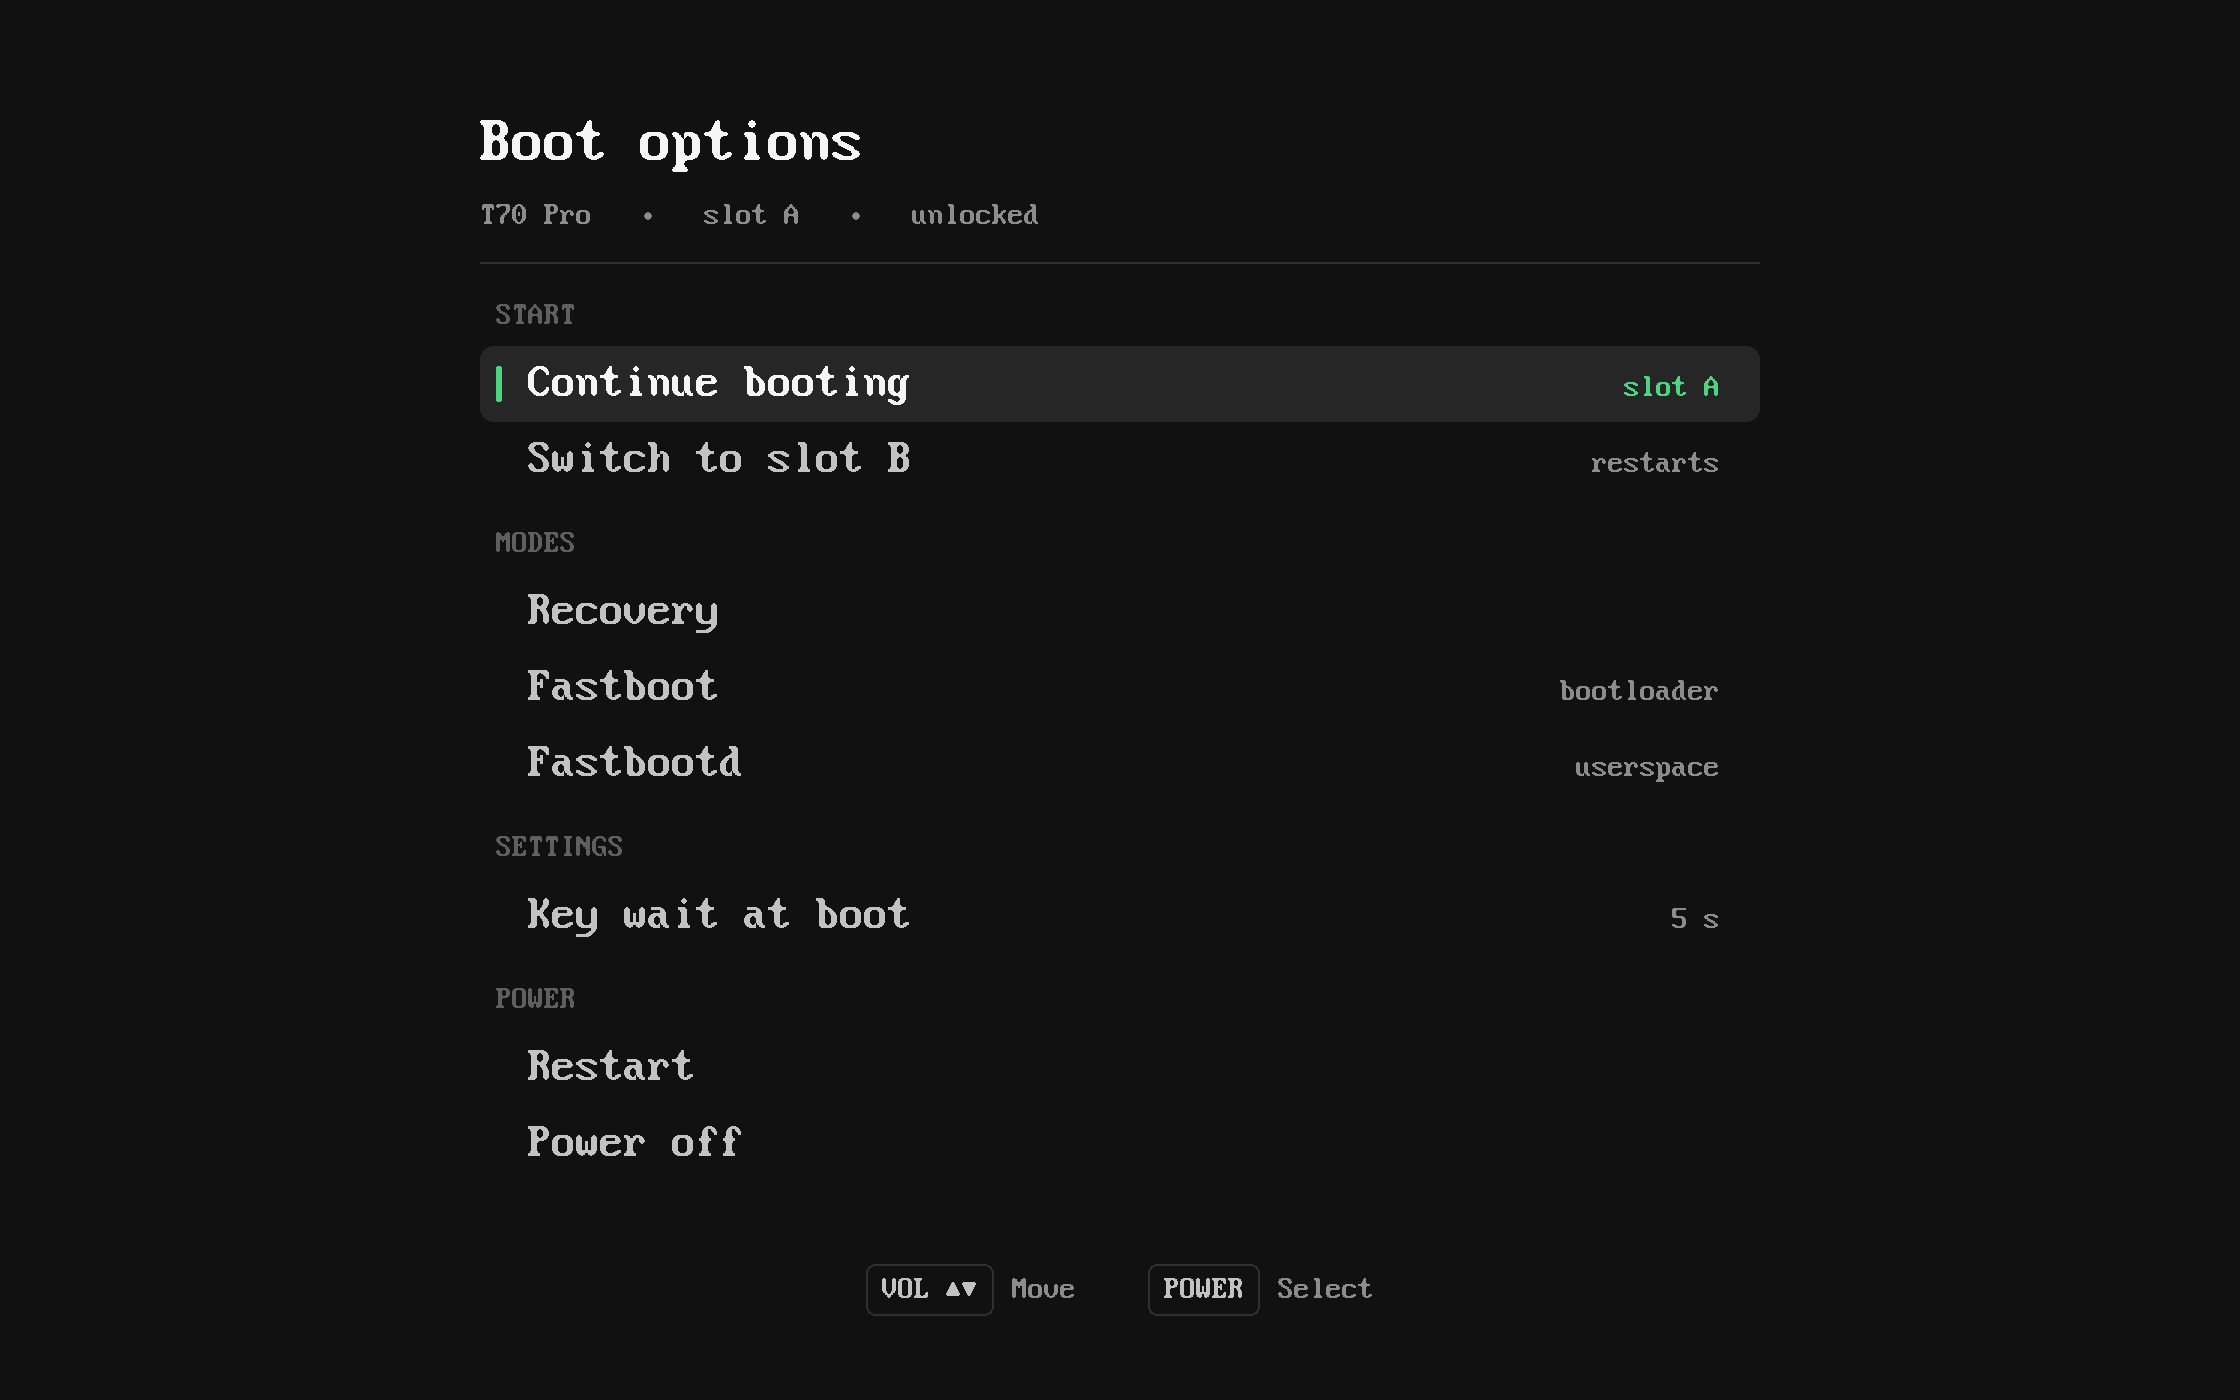
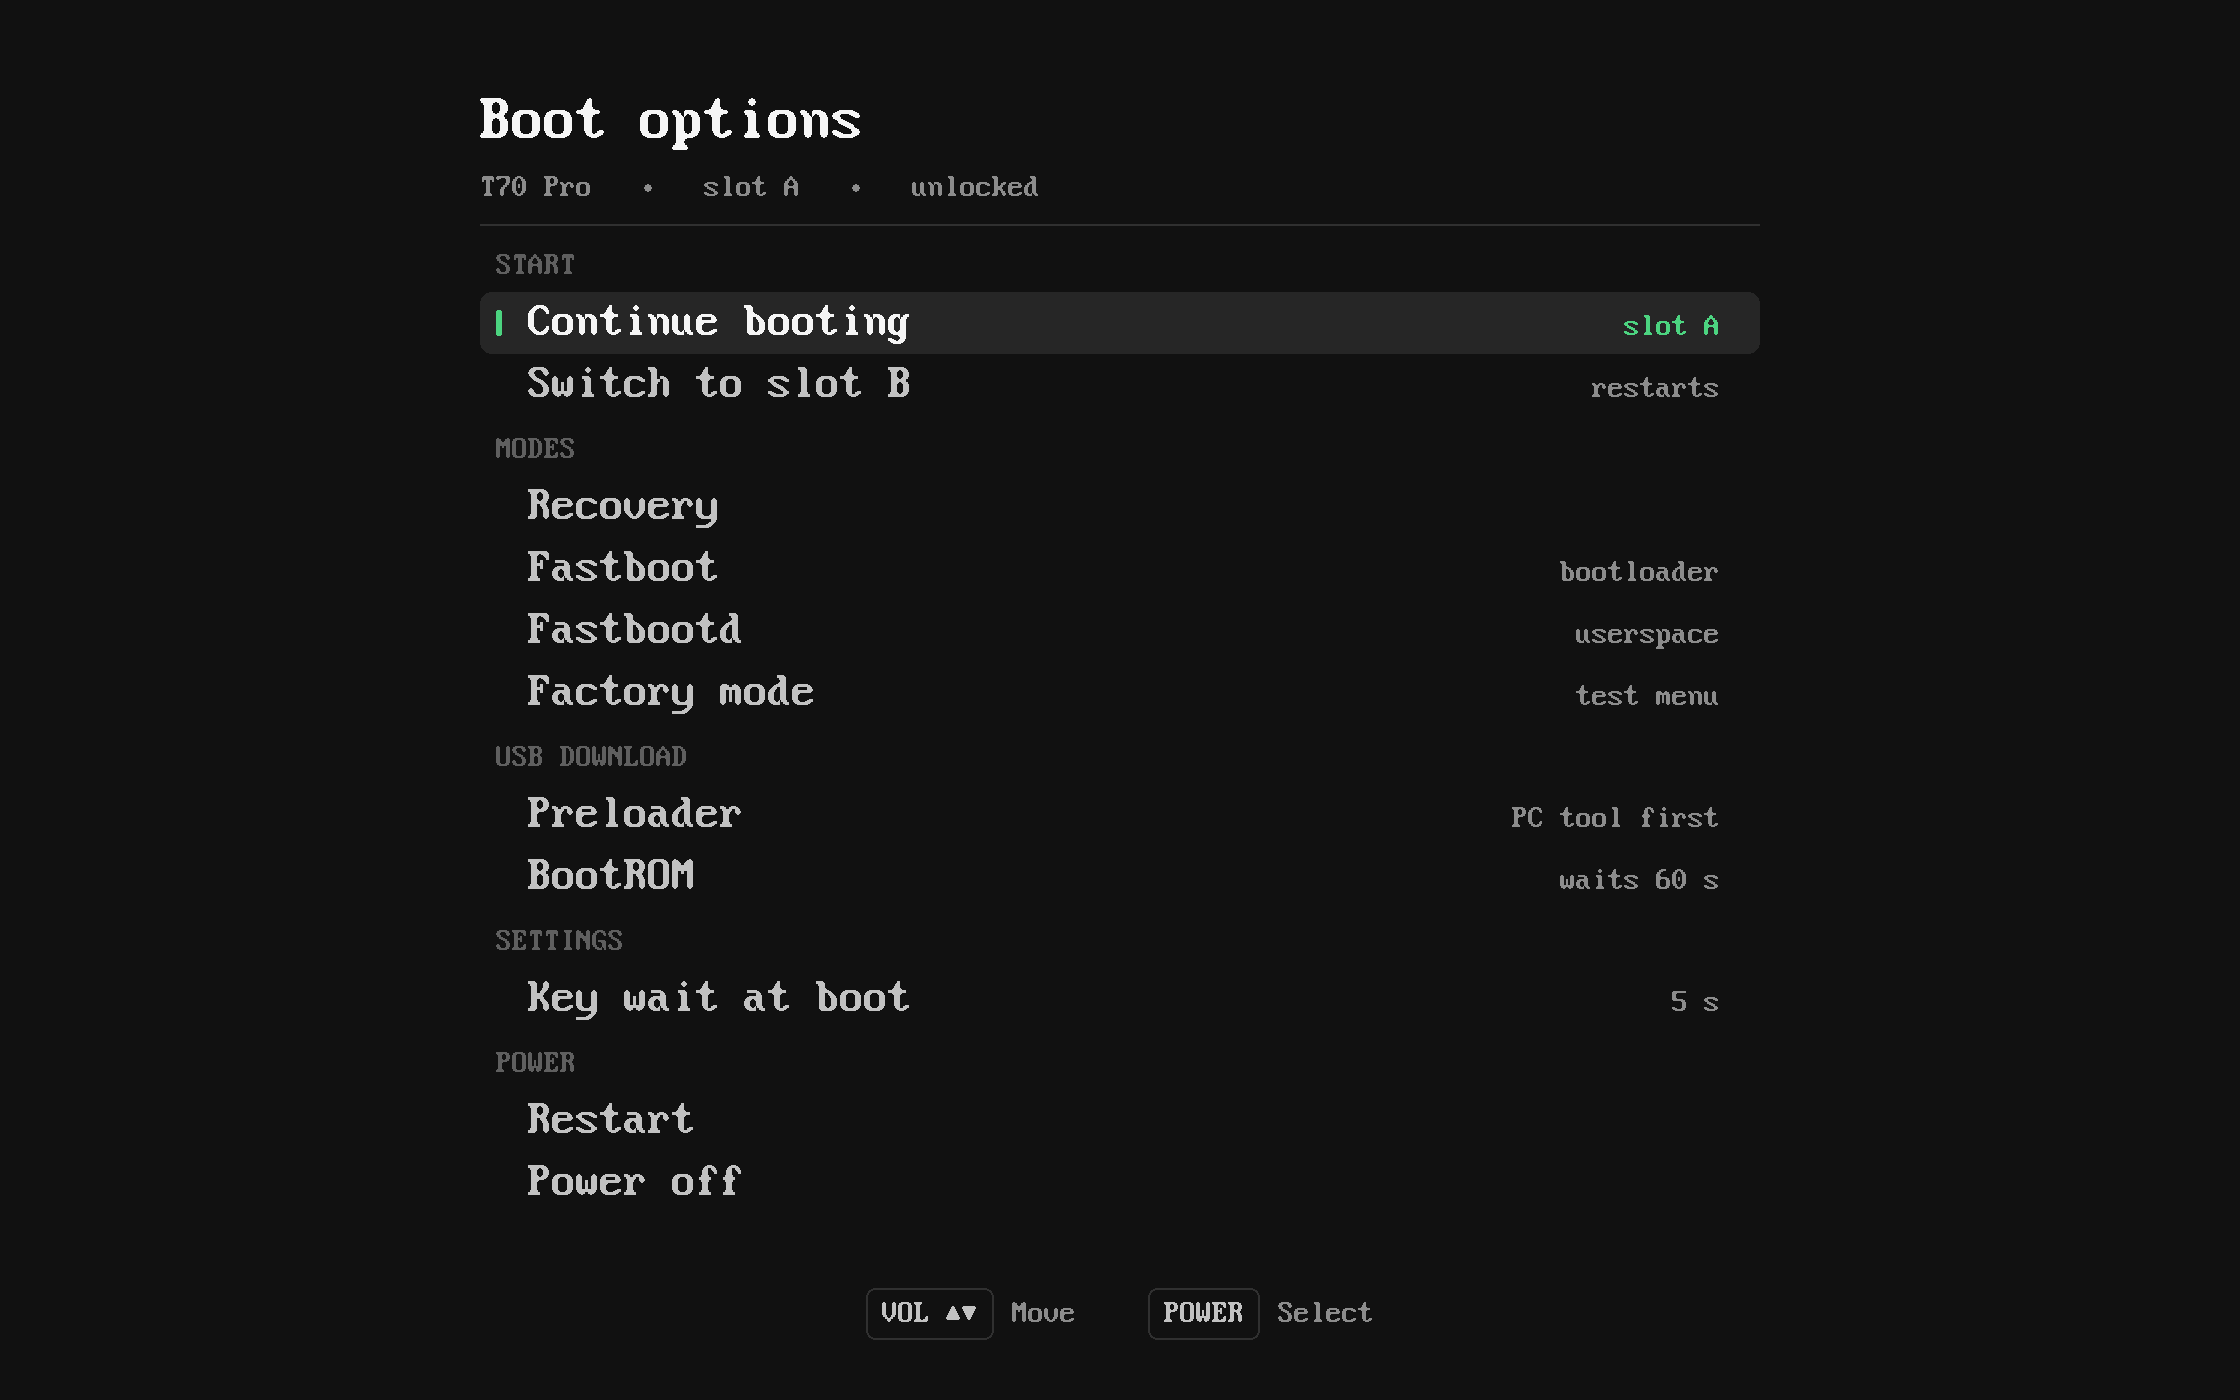
Menu: factory mode, and USB download through the preloader or the BootROM
Factory mode sets the boot mode the stock lk reads again for the kernel
(atag,boot and the command line) and goes on booting, as with volume up held
at power-on.

BootROM: the stock preloader's emergency download (volume up + down + power
at power-on) unlocks the always-on security block (0x1001a100 = 0xad98,
0x1001a108 bit 0), sets BOOT_MISC0 (0x1001a080) to "DL" << 16 | seconds << 2
| 1 and resets with the watchdog. We do the same with a 60 s wait instead
of 5 s.

Preloader: it looks for a PC tool at every start (2.5 s enumeration, 8 s
handshake; the wait-forever switch is compiled out) but skips that while
the power key is held, as after a forced power-off. The menu item restarts
with no key held.

Eleven items: the layout is a little tighter.

diff --git a/src/menu.c b/src/menu.c
@@ -17,6 +17,9 @@ enum action {
 	ACT_RECOVERY,
 	ACT_FASTBOOT,
 	ACT_FASTBOOTD,
+	ACT_FACTORY,
+	ACT_PRELOADER,
+	ACT_BROM,
 	ACT_WAIT,
 	ACT_REBOOT,
 	ACT_POWEROFF,
@@ -40,14 +43,20 @@ static int dimmed = 0;	/* the menu behind a message box is darkened (in .data) *
 
 /* Layout for the 2240x1400 panel: one centred column. */
 #define COL_W		1280
-#define ROW_H		76
-#define LIST_Y		300
+#define ROW_H		62
+#define TITLE_Y		90
+#define LIST_Y		250
+#define GROUP_GAP	18	/* above a group title (not the first) */
+#define GROUP_H		42	/* group title and the gap under it */
+#define KEYS_Y		112	/* key hints, from the bottom */
+#define BROM_WAIT_S	60
 #define KEY_GAP		18	/* key cap to its meaning */
 #define PAIR_GAP	72	/* between the two key hints */
 
 static const char *const group[ACT_COUNT] = {
 	[ACT_CONTINUE] = "START",
 	[ACT_RECOVERY] = "MODES",
+	[ACT_PRELOADER] = "USB DOWNLOAD",
 	[ACT_WAIT] = "SETTINGS",
 	[ACT_REBOOT] = "POWER",
 };
@@ -63,7 +72,7 @@ static int item_y(int item)
 
 	for (int i = 0;; i++) {
 		if (group[i])
-			y += (i ? 30 : 0) + 32 + 14;	/* gap, group title, gap */
+			y += (i ? GROUP_GAP : 0) + GROUP_H;
 		if (i == item)
 			return y;
 		y += ROW_H;
@@ -127,6 +136,18 @@ static void draw_item(int i, int selected, const struct t70_cfg *cfg)
 		label = "Fastbootd";
 		right = "userspace";
 		break;
+	case ACT_FACTORY:
+		label = "Factory mode";
+		right = "test menu";
+		break;
+	case ACT_PRELOADER:
+		label = "Preloader";
+		right = "PC tool first";
+		break;
+	case ACT_BROM:
+		label = "BootROM";
+		right = "waits 60 s";
+		break;
 	case ACT_WAIT:
 		label = "Key wait at boot";
 		right = wait_text(cfg->wait_ms, wbuf);
@@ -140,8 +161,8 @@ static void draw_item(int i, int selected, const struct t70_cfg *cfg)
 	}
 	gfx_fill(x, y, COL_W, ROW_H, C_BG);
 	if (selected) {
-		gfx_round(x, y, COL_W, ROW_H, 14, C_ROW);
-		gfx_round(x + 16, y + 20, 6, ROW_H - 40, 3, C_ACCENT);
+		gfx_round(x, y, COL_W, ROW_H, 12, C_ROW);
+		gfx_round(x + 16, y + 18, 6, ROW_H - 36, 3, C_ACCENT);
 	}
 	/* 3x label and 2x note on one baseline (row 12 of the 16-row font) */
 	int ty = y + (ROW_H - 48) / 2;
@@ -175,19 +196,19 @@ static void draw(int sel, const struct t70_cfg *cfg)
 
 	dimmed = 0;
 	gfx_fill(0, 0, gfx_w(), gfx_h(), C_BG);
-	gfx_text(x, 112, 4, C_TEXT, "Boot options");
-	gfx_text(x, 200, 2, C_TEXT2, join(sub, "T70 Pro   \x07   slot ", here, "   \x07   unlocked"));
-	gfx_fill(x, 262, COL_W, 2, C_LINE);
+	gfx_text(x, TITLE_Y, 4, C_TEXT, "Boot options");
+	gfx_text(x, TITLE_Y + 82, 2, C_TEXT2, join(sub, "T70 Pro   \x07   slot ", here, "   \x07   unlocked"));
+	gfx_fill(x, TITLE_Y + 134, COL_W, 2, C_LINE);
 	for (int i = 0; i < ACT_COUNT; i++) {
 		if (group[i])
-			gfx_text(x + 16, item_y(i) - 46, 2, C_TEXT3, group[i]);
+			gfx_text(x + 16, item_y(i) - GROUP_H, 2, C_TEXT3, group[i]);
 		draw_item(i, i == sel, cfg);
 	}
 	/* the keys, centred at the bottom */
 	int w = PAIR_GAP;
 	for (int k = 0; k < 2; k++)
 		w += keycap_w(hint[k][0]) + KEY_GAP + gfx_text_w(2, hint[k][1]);
-	int kx = (gfx_w() - w) / 2, ky = gfx_h() - 136;
+	int kx = (gfx_w() - w) / 2, ky = gfx_h() - KEYS_Y;
 	for (int k = 0; k < 2; k++) {
 		kx += keycap(kx, ky, hint[k][0]) + KEY_GAP;
 		kx += gfx_text(kx, ky + 10, 2, C_TEXT2, hint[k][1]) + PAIR_GAP;
@@ -270,6 +291,18 @@ static int do_action(int act, struct t70_cfg *cfg)
 		}
 		lk_rgu_set_boot_mode(LK_RGU_RECOVERY);
 		lk_platform_halt(LK_HALT_REBOOT, LK_REASON_SW_RESET);
+	case ACT_FACTORY:
+		/* as with volume up held at power-on: the boot goes on in factory
+		 * mode (the stock lk reads the mode again for the kernel) */
+		lk_dprintf("t70: factory mode\n");
+		lk_boot_mode = LK_MODE_FACTORY;
+		return 1;
+	case ACT_PRELOADER:
+		notice("Restarting to the preloader", "It looks for a PC tool for a few seconds");
+		t70_reboot_preloader();
+	case ACT_BROM:
+		notice("Restarting to BootROM download", "It waits 60 s for a PC tool");
+		t70_reboot_brom(BROM_WAIT_S);
 	case ACT_FASTBOOT:
 		notice("Restarting to fastboot", "Please wait");
 		lk_rgu_set_boot_mode(LK_RGU_BOOTLOADER);

diff --git a/tests/host_menu_test.c b/tests/host_menu_test.c
@@ -32,6 +32,7 @@ volatile uint8_t lk_boot_mode;
 static int kpd_dead;
 static int kpd_sparse;	/* keypad bits without a key read 0, not 1 */
 volatile uint16_t t70_test_kpd_mem1 = 0xffff;
+volatile uint32_t t70_test_secao[0x44];
 
 static void press(uint64_t at_ms, uint64_t len_ms, unsigned keys)
 {
@@ -270,8 +271,8 @@ int main(void)
 
 	name = "fastboot (bootloader), going up past the top";
 	reset();
-	press(100, 100, UP); for (int i = 0; i < 5; i++) press(400 + i * 300, 100, UP);
-	press(2500, 100, PWR); run();
+	press(100, 100, UP); for (int i = 0; i < 8; i++) press(400 + i * 300, 100, UP);
+	press(3500, 100, PWR); run();
 	CHECK(halted && rgu_mode == LK_RGU_BOOTLOADER && halt_reason == LK_REASON_SW_RESET, "no fastboot reboot");
 
 	name = "fastbootd";
@@ -280,10 +281,29 @@ int main(void)
 	press(2500, 100, PWR); run();
 	CHECK(halted && rgu_mode == LK_RGU_RECOVERY && !strcmp((char *)misc, "boot-fastboot"), "no fastbootd");
 
+	name = "factory mode: the boot goes on in factory mode";
+	reset(); press(100, 100, DOWN); for (int i = 0; i < 5; i++) press(400 + i * 300, 100, DOWN);
+	press(2500, 100, PWR); run();
+	CHECK(!halted && lk_boot_mode == LK_MODE_FACTORY && fb_black() && now_us < 3000000, "not factory");
+	CHECK(strstr(screen, "Factory mode\ntest menu\n") != NULL, "label");
+
+	name = "preloader: a cold restart";
+	reset(); press(100, 100, DOWN); for (int i = 0; i < 6; i++) press(400 + i * 300, 100, DOWN);
+	press(2800, 100, PWR); run();
+	CHECK(halted && halt_action == LK_HALT_REBOOT && halt_reason == LK_REASON_COLD && rgu_mode == -1, "no cold restart");
+
+	name = "BootROM download: BOOT_MISC0 set, watchdog reset";
+	reset(); memset((void *)t70_test_secao, 0, sizeof(t70_test_secao));
+	press(100, 100, DOWN); for (int i = 0; i < 7; i++) press(400 + i * 300, 100, DOWN);
+	press(3100, 100, PWR); run();
+	CHECK(halted && halt_reason == LK_REASON_SW_RESET, "no watchdog reset");
+	CHECK(t70_test_secao[0x80 / 4] == (0x444c0000u | 60u << 2 | 1) && (t70_test_secao[0x108 / 4] & 1) &&
+	      t70_test_secao[0x100 / 4] == 0, "download request not set");
+
 	name = "wait setting 5 -> 3 s, saved in misc, used next boot";
 	reset(); memset(misc, 0, sizeof(misc));
-	press(100, 100, UP); for (int i = 0; i < 5; i++) press(400 + i * 300, 100, DOWN);
-	press(2500, 100, PWR); press(3000, 100, UP); for (int i = 0; i < 5; i++) press(3300 + i * 300, 100, DOWN);
+	press(100, 100, UP); for (int i = 0; i < 8; i++) press(400 + i * 300, 100, DOWN);
+	press(3500, 100, PWR); press(4000, 100, UP); for (int i = 0; i < 8; i++) press(4300 + i * 300, 100, DOWN);
 	run();
 	CHECK(!halted, "halted");
 	{

diff --git a/src/download.c b/src/download.c
@@ -1,0 +1,48 @@
+/* SPDX-License-Identifier: GPL-3.0-or-later */
+/*
+ * USB download modes for PC tools.
+ *
+ * BROM: the stock preloader's emergency download (taken when volume up,
+ * volume down and power are held at power-on) unlocks the always-on security
+ * block, sets the BootROM download request in BOOT_MISC0 and resets with the
+ * watchdog; the BootROM then waits for a tool on USB. We do the same with a
+ * longer wait (the stock one waits 5 s).
+ *
+ *   SECURITY_AO 0x1001a000: +0x100 MISC_LOCK_KEY (0xad98 unlocks)
+ *                           +0x108 RST_CON (bit 0 set)
+ *                           +0x080 BOOT_MISC0 = "DL" << 16 | seconds << 2 | 1
+ *
+ * Preloader: the preloader looks for a tool on USB at every start (2.5 s to
+ * be enumerated, then 8 s for the handshake) but skips it while the power key
+ * is held, as it often is after a forced power-off. A restart from the menu
+ * has no key held, so a tool already waiting on the PC gets the preloader.
+ */
+#include "lk_stock.h"
+#include "t70.h"
+
+#ifdef T70_HOST_TEST
+extern volatile uint32_t t70_test_secao[0x44];
+#define SECAO t70_test_secao
+#else
+#define SECAO ((volatile uint32_t *)0xffff00001001a000ul)	/* stock lk device mapping */
+#endif
+
+#define MISC_LOCK_KEY	(0x100 / 4)
+#define RST_CON		(0x108 / 4)
+#define BOOT_MISC0	(0x080 / 4)
+
+void t70_reboot_brom(unsigned seconds)
+{
+	if (seconds > 0x3ffe)
+		seconds = 0x3ffe;
+	SECAO[MISC_LOCK_KEY] = 0xad98;
+	SECAO[RST_CON] |= 1;
+	SECAO[MISC_LOCK_KEY] = 0;
+	SECAO[BOOT_MISC0] = 0x444c0000u | (seconds << 2) | 1;
+	lk_platform_halt(LK_HALT_REBOOT, LK_REASON_SW_RESET);
+}
+
+void t70_reboot_preloader(void)
+{
+	lk_platform_halt(LK_HALT_REBOOT, LK_REASON_COLD);
+}

diff --git a/src/t70.h b/src/t70.h
@@ -65,5 +65,9 @@ void t70_diag(unsigned stage);
 int t70_diag_keys(int y);	/* show the raw keys on a line at y; 1 if redrawn */
 #endif
 
+/* download.c: USB download modes for PC tools */
+void t70_reboot_brom(unsigned seconds) __attribute__((noreturn));
+void t70_reboot_preloader(void) __attribute__((noreturn));
+
 /* menu.c */
 void t70_menu(struct t70_cfg *cfg);

diff --git a/tests/demo_screen.c b/tests/demo_screen.c
@@ -29,6 +29,7 @@ static uint8_t misc[64 * 1024];
 static jmp_buf halt_jump;
 volatile uint8_t lk_boot_mode;
 volatile uint16_t t70_test_kpd_mem1 = 0xffff;
+volatile uint32_t t70_test_secao[0x44];
 static struct lk_fbcon fbcon = { NULL, W * H * 4, 3, 4, W, H };
 struct lk_fbcon *volatile lk_fbcon = &fbcon;
 extern uint8_t *const sim_font;

diff --git a/README.md b/README.md
@@ -15,14 +15,24 @@ opens the menu (volume moves, power selects):
 ![Boot options menu](docs/menu.png)
 
 - Continue booting (this slot) / Switch to the other slot (restarts)
-- Recovery, Fastboot (bootloader), Fastbootd (userspace)
+- Recovery, Fastboot (bootloader), Fastbootd (userspace): this slot's
+- Factory mode: the boot goes on in factory mode, as with volume up held at
+  power-on
+- USB download (`src/download.c`):
+  - Preloader: a restart with no key held, so the preloader looks for a PC
+    tool (it skips that while power is held, as after a forced power-off)
+  - BootROM: the stock preloader's emergency download (volume up + down +
+    power at power-on) with a 60 s wait instead of 5 s: `BOOT_MISC0` in the
+    always-on security block, then a watchdog reset
 - Key wait at boot 5/3/1 s or off, saved in `misc` at 0x3000 (`struct t70_cfg`)
 - Restart, Power off
 
 Power still held from switching the tablet on does not open the menu; a
 volume key held while booting does. With the wait off the screen is left as
-it is and only a held volume key opens the menu. Download mode, SD card and
-EDK2 boot are not done yet. Checked by `make test` (menu logic and drawing on
+it is and only a held volume key opens the menu. A boot whose mode is
+already chosen (recovery, factory, META, fastboot, download) does not wait.
+SD card boot, `fastboot boot` (missing from the stock fastboot) and EDK2
+boot are not done yet. Checked by `make test` (menu logic and drawing on
 the host), `make relocheck` and `make check`.
 
 On the device (slot B, 2026-11-25) the first drawn menu showed nothing,
